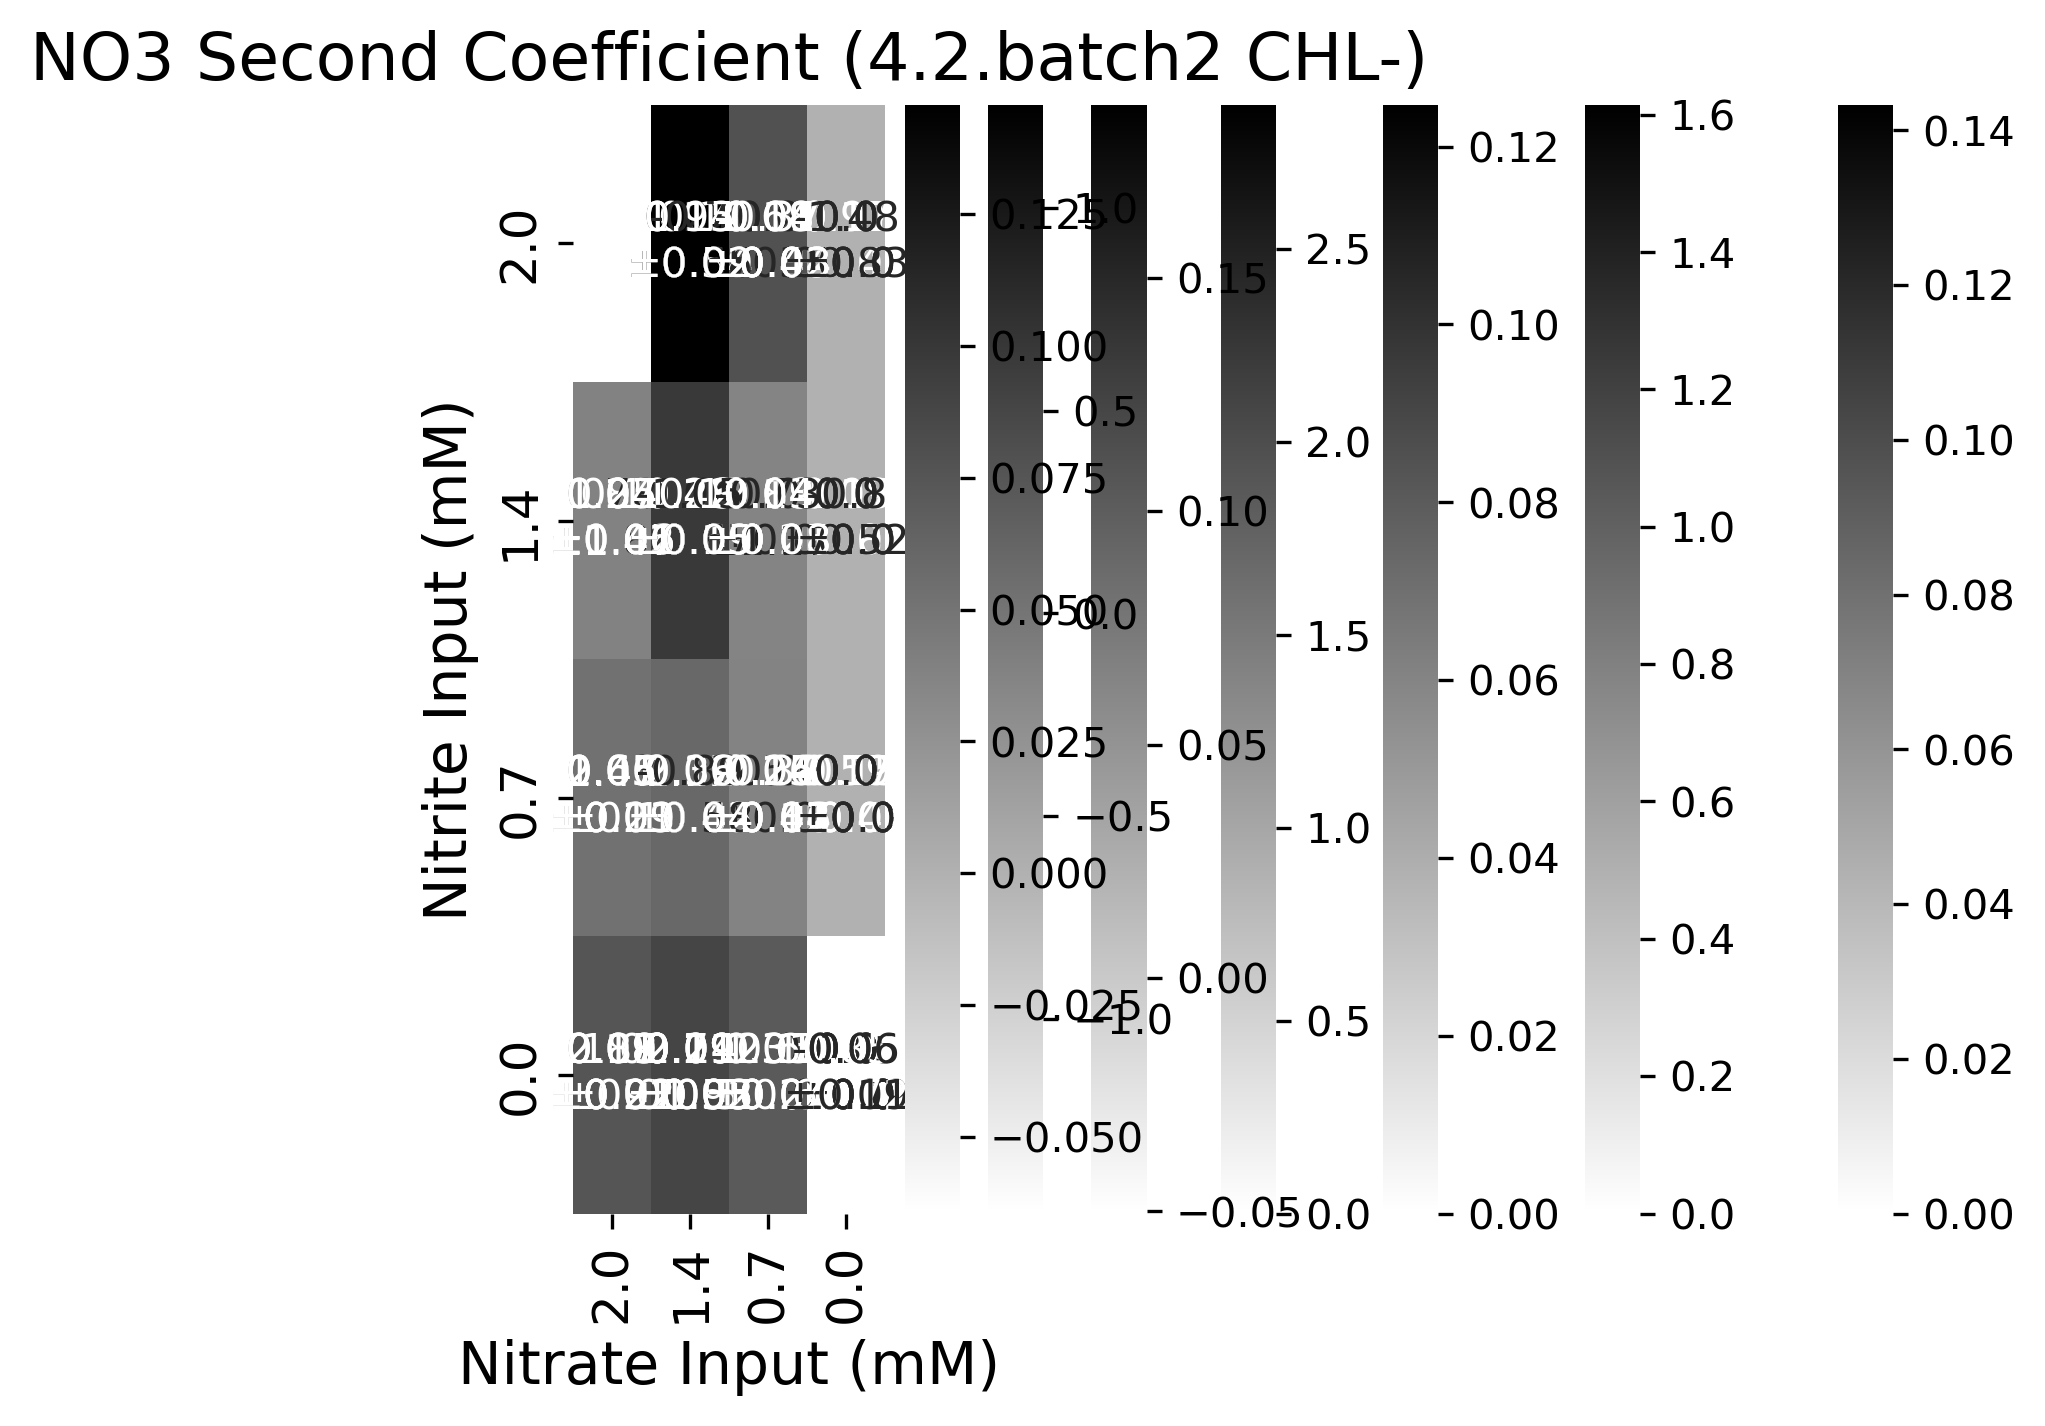
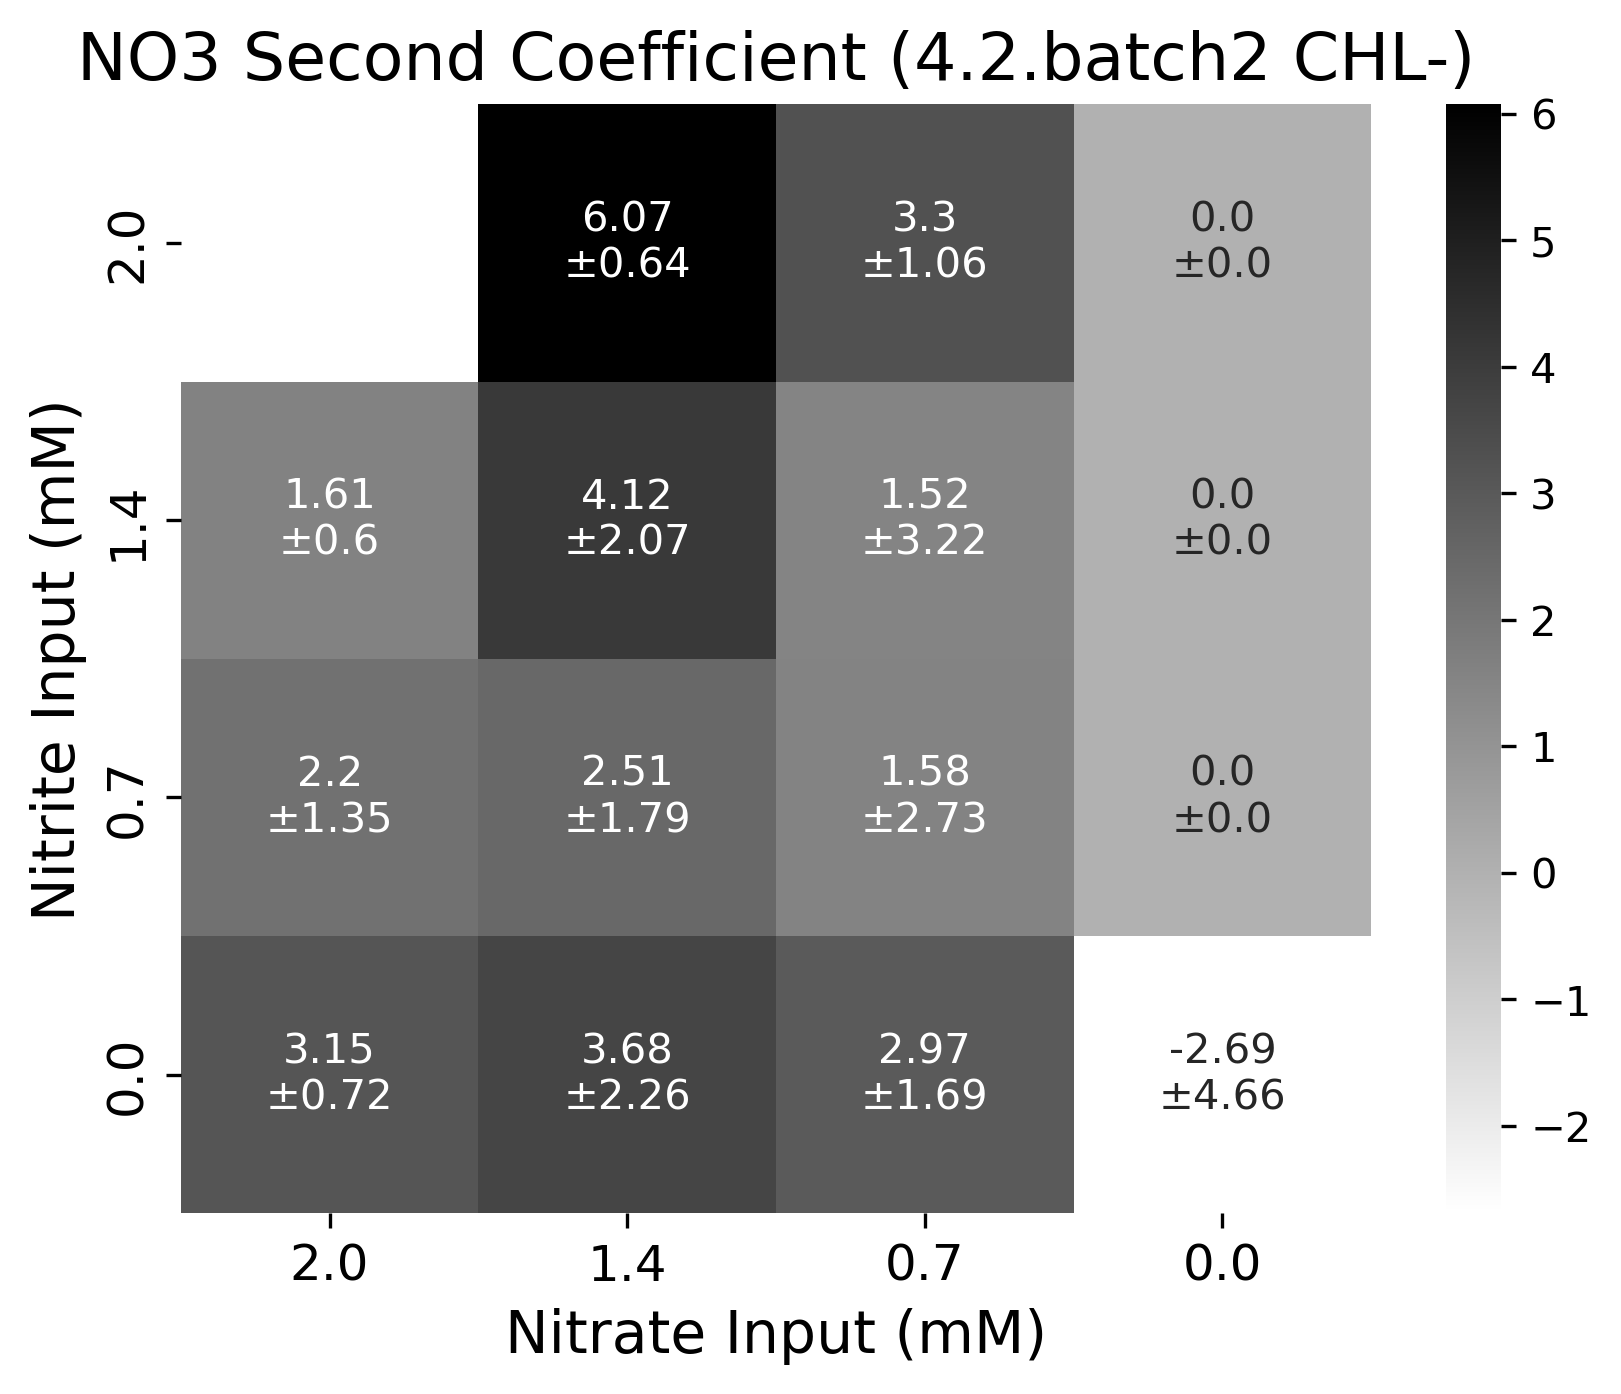
.

diff --git a/regressors_20260206.py b/regressors_20260206.py
@@ -362,13 +362,14 @@ class PolynomialRegressor:
             input_fn: str,
             col_labels: List[str],
             output_fn: str,
+            conv_factor: float = 24.0,
             show_plot: bool = False
     ):
         file_path = os.path.join(self.results_dir, f'{input_fn}.csv')
         if not os.path.exists(file_path):
             raise FileNotFoundError(f"The file {file_path} does not exist.")
         regression_results_df = pd.read_csv(file_path, index_col=0)
-        regression_results_df.iloc[:, :-self.meta_col_num] = regression_results_df.iloc[:, :-self.meta_col_num] * 24    # Convert rates to mM/day
+        regression_results_df.iloc[:, :-self.meta_col_num] = regression_results_df.iloc[:, :-self.meta_col_num] * conv_factor    # Convert rates to mM/day
         
         # Group by and calculate mean/std
         groupby_cols = ['Nitrite_input', 'Nitrate_input', 'Chloramphenicol']
@@ -398,6 +399,10 @@ class PolynomialRegressor:
             plt.xticks(fontsize=12)
             plt.yticks(fontsize=12)
             plt.savefig(f'{self.plots_dir}/{output_fn}_{col_label}_heatmap.png', dpi=300, bbox_inches='tight')    
+            print(f'Saved {self.plots_dir}/{output_fn}_{col_label}_heatmap.png')
+            if show_plot:
+                plt.show()
+            plt.close()
 
 
 if __name__ == "__main__":
@@ -410,13 +415,14 @@ if __name__ == "__main__":
     
         regressor = PolynomialRegressor(id)
         #regressor.fit_for_row('F01', show_plot=True)
-        rows_chl0 = ['E04', 'E05', 'E06', 'E07', 'E08', 'E09', 'E10', 'E11', 'E12', 'F01', 'F02', 'F03', 'F04', 'F05', 'F06', 'F07', 'F08', 'F09', 'F10', 'F11', 'F12', 'G01', 'G02', 'G03', 'G04', 'G05', 'G06', 'G07', 'G08', 'G09', 'G10', 'G11', 'G12', 'H01', 'H02', 'H03', 'H04', 'H05', 'H06', 'H07', 'H08', 'H09', 'H10', 'H11', 'H12']
-        regression_results_df = regressor.fit_for_selected_rows(row_labels=rows_chl0, output_fn=f'{id}.chl0_polynomial_regression_results')
+        # rows_chl0 = ['E04', 'E05', 'E06', 'E07', 'E08', 'E09', 'E10', 'E11', 'E12', 'F01', 'F02', 'F03', 'F04', 'F05', 'F06', 'F07', 'F08', 'F09', 'F10', 'F11', 'F12', 'G01', 'G02', 'G03', 'G04', 'G05', 'G06', 'G07', 'G08', 'G09', 'G10', 'G11', 'G12', 'H01', 'H02', 'H03', 'H04', 'H05', 'H06', 'H07', 'H08', 'H09', 'H10', 'H11', 'H12']
+        # regression_results_df = regressor.fit_for_selected_rows(row_labels=rows_chl0, output_fn=f'{id}.chl0_polynomial_regression_results')
         # regressor.consumption_plot_for_selected_rows(row_labels=rows_chl0, regression_results_df=regression_results_df, output_fn=f'{id}.chl0_polynomial_regression_plots')
         regressor.heatmaps_for_selected_columns(
             input_fn=f'{id}.chl0_polynomial_regression_results',
-            col_labels=['NO2 Second Coefficient', 'NO2 First Coefficient', 'NO3 Second Coefficient', 'NO3 First Coefficient'],
+            col_labels=['NO2 Second Coefficient', 'NO3 Second Coefficient'],
             output_fn=f'{id}.chl0',
+            conv_factor=1000,
             show_plot=False
         )
         
